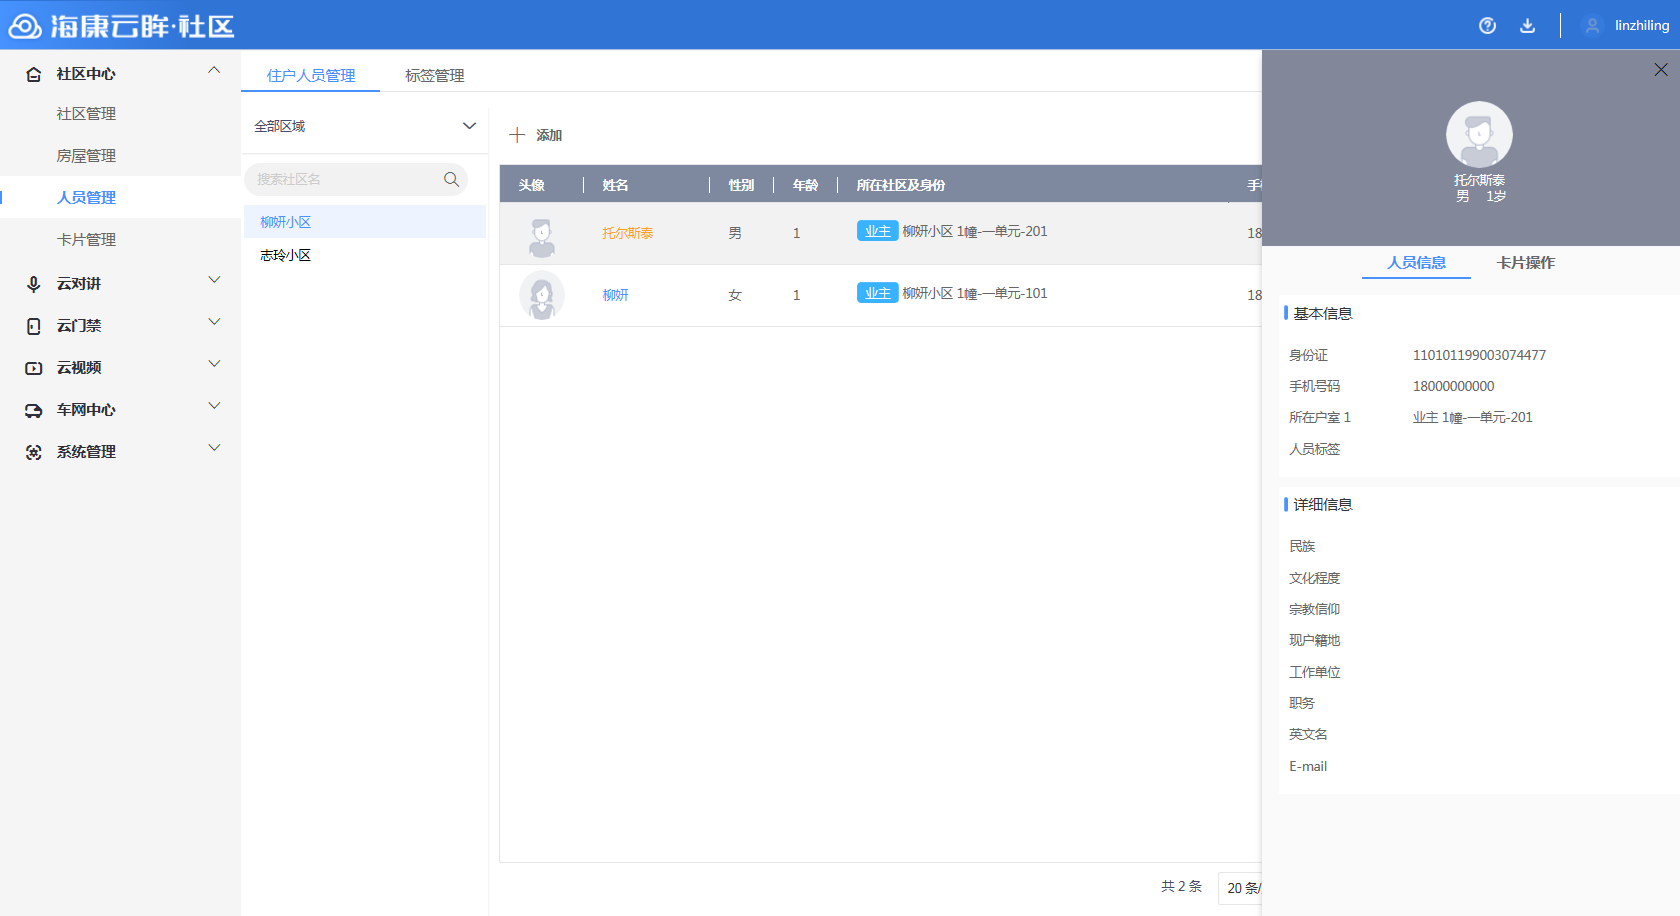
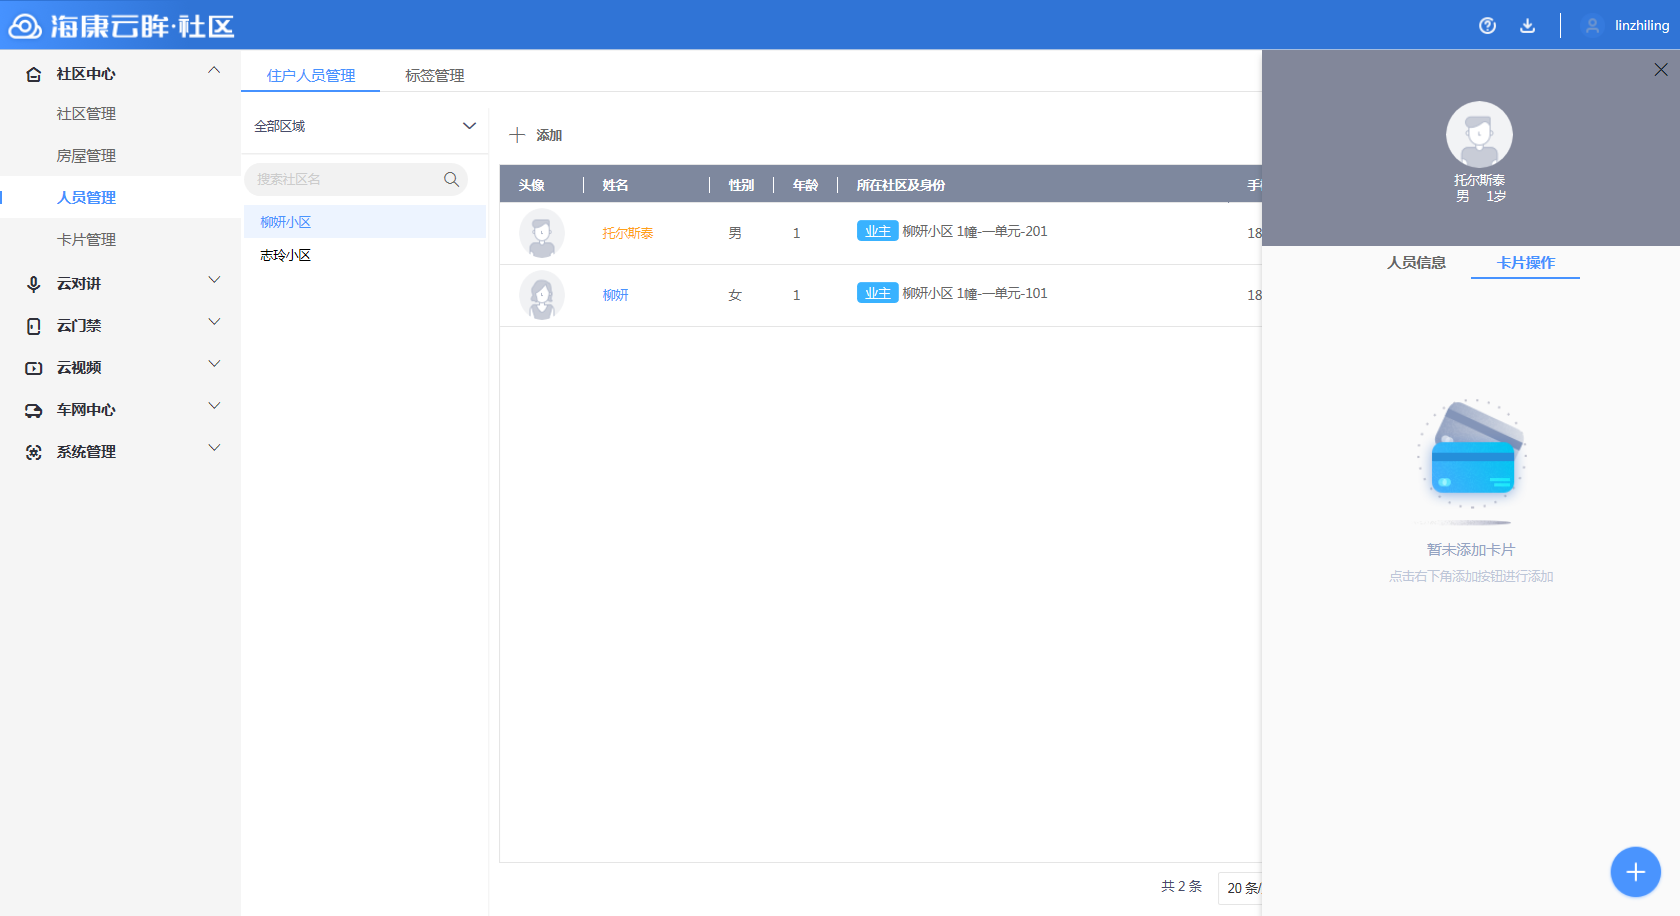
Creates assets/tu-pian-zhong-xin.png
Auto commit by GitBook Editor

diff --git a/ji-chu-gong-neng/she-qu-zhong-xin/ren-yuan-guan-li.md b/ji-chu-gong-neng/she-qu-zhong-xin/ren-yuan-guan-li.md
@@ -11,9 +11,9 @@
 > 1.住户人员管理：针对社区的住户，如业主、租客、家属等长期或临时居住人员的信息管理\(住户信息可在云眸·社区APP注册账号并添加房屋\)。  
 > 2.标签管理：住户人员可能存在多个身份或者标签属性，可在标签管理中编辑这些标签，只有超级管理员才有权限编辑。
 
-**步骤2 **选择社区，进入人员列表，点击‘开卡’按钮，弹出开卡窗口，通过读卡器或输入卡号后点击确保存完成开卡。
+**步骤2 **选择社区，进入人员列表，点击“添加”按钮，弹出人员添加窗口，完成人员信息填写后点击确保存完成人员信息录入。
 
-![](/assets/ren-yuan-kai-ka.jpg)**步骤3 **进入人员详情，选择卡片操作，可对人员卡片信息进行开卡、挂失、补卡、换卡、解挂、退卡操作。
+![](/assets/ren-yuan-tian-jia.png)**步骤3 **进入人员详情，选择卡片操作，可对人员卡片信息进行开卡、挂失、补卡、换卡、解挂、退卡操作。
 
 ![](/assets/ren-yuan-xiang-qing.png)
 

diff --git a/yun-fang-ke.md b/yun-fang-ke.md
@@ -1,10 +1,11 @@
-# 云访客 {#基础功能}
+# 云视频 {#基础功能}
 
 ---
 
-访客信息系统后台，可以查看来访人员信息和预约信息：
+视频系统后台，可以查看视频设备实时预览、回放；通过视频进行巡查；抓拍图片管理等：
 
-* 暂未开放
+* 视频巡查：查看各个视频点位实时预览、录像回放，支持多画面窗口布局、全屏切换，支持抓拍、录像；支持远程云镜控制，支持预置点设置。
+* 图片中心：查看图片巡查记录。
 
 
 

diff --git a/SUMMARY.md b/SUMMARY.md
@@ -15,7 +15,9 @@
   * [对讲日志查询](yun-dui-jiang/dui-jiang-ri-zhi-cha-xun.md)
 * [云门禁](yun-men-jin.md)
   * [门禁配置管理](yun-men-jin/men-jin-pei-zhi-guan-li.md)
-* [云访客](yun-fang-ke.md)
+* [云视频](yun-fang-ke.md)
+  * 视频巡查
+  * [图片中心](yun-fang-ke/tu-pian-zhong-xin.md)
 * [车网中心](che-wang-zhong-xin.md)
   * [停车场管理](ting-che-chang-guan-li.md)
   * [车辆管理](che-liang-guan-li.md)

diff --git a/ji-chu-gong-neng/she-qu-zhong-xin/qia-pian-guan-li.md b/ji-chu-gong-neng/she-qu-zhong-xin/qia-pian-guan-li.md
@@ -2,5 +2,5 @@
 
 ---
 
-
+可对未开卡、已开卡的所有卡片进行集中管理。
 

diff --git a/yun-fang-ke/tu-pian-zhong-xin.md b/yun-fang-ke/tu-pian-zhong-xin.md
@@ -1,0 +1,2 @@
+![](/assets/tu-pian-zhong-xin.png)
+
